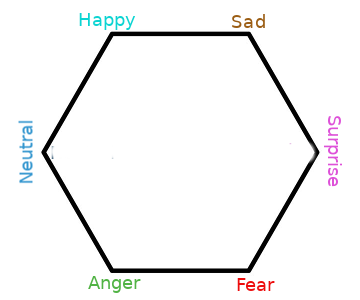
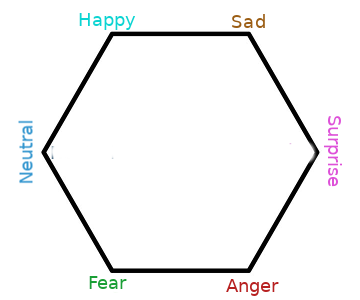
Fixed labels in hexagon

Changed region(s): [[0.6111, 0.93, 0.7639, 0.99], [0.2444, 0.9, 0.3972, 0.99]]

diff --git a/App.py b/App.py
@@ -198,9 +198,9 @@ class UserDockElement(wx.Panel):
 
 
     def update_hexagon(self, emotions_factors):
-        # 0: happyness, 1: neutra, 2: surprise, 3: sad, 4: anger, 5: fear
+        # 0: neutral, 1: happy, 2: sad, 3: surprise, 4: anger, 5: fear
         scaling_factors = np.array(emotions_factors)
-        static_hex_pnts = np.array([[167,72], [434, 72], [568, 305], [434, 536], [167, 536], [32, 305]])/2.0
+        static_hex_pnts = np.array([ [32, 305], [167,72], [434, 72], [568, 305], [434, 536], [167, 536]] )/2.0
         hex_center = np.array([150, 150])
         vectors = static_hex_pnts - hex_center
         for i, s in enumerate(scaling_factors):
